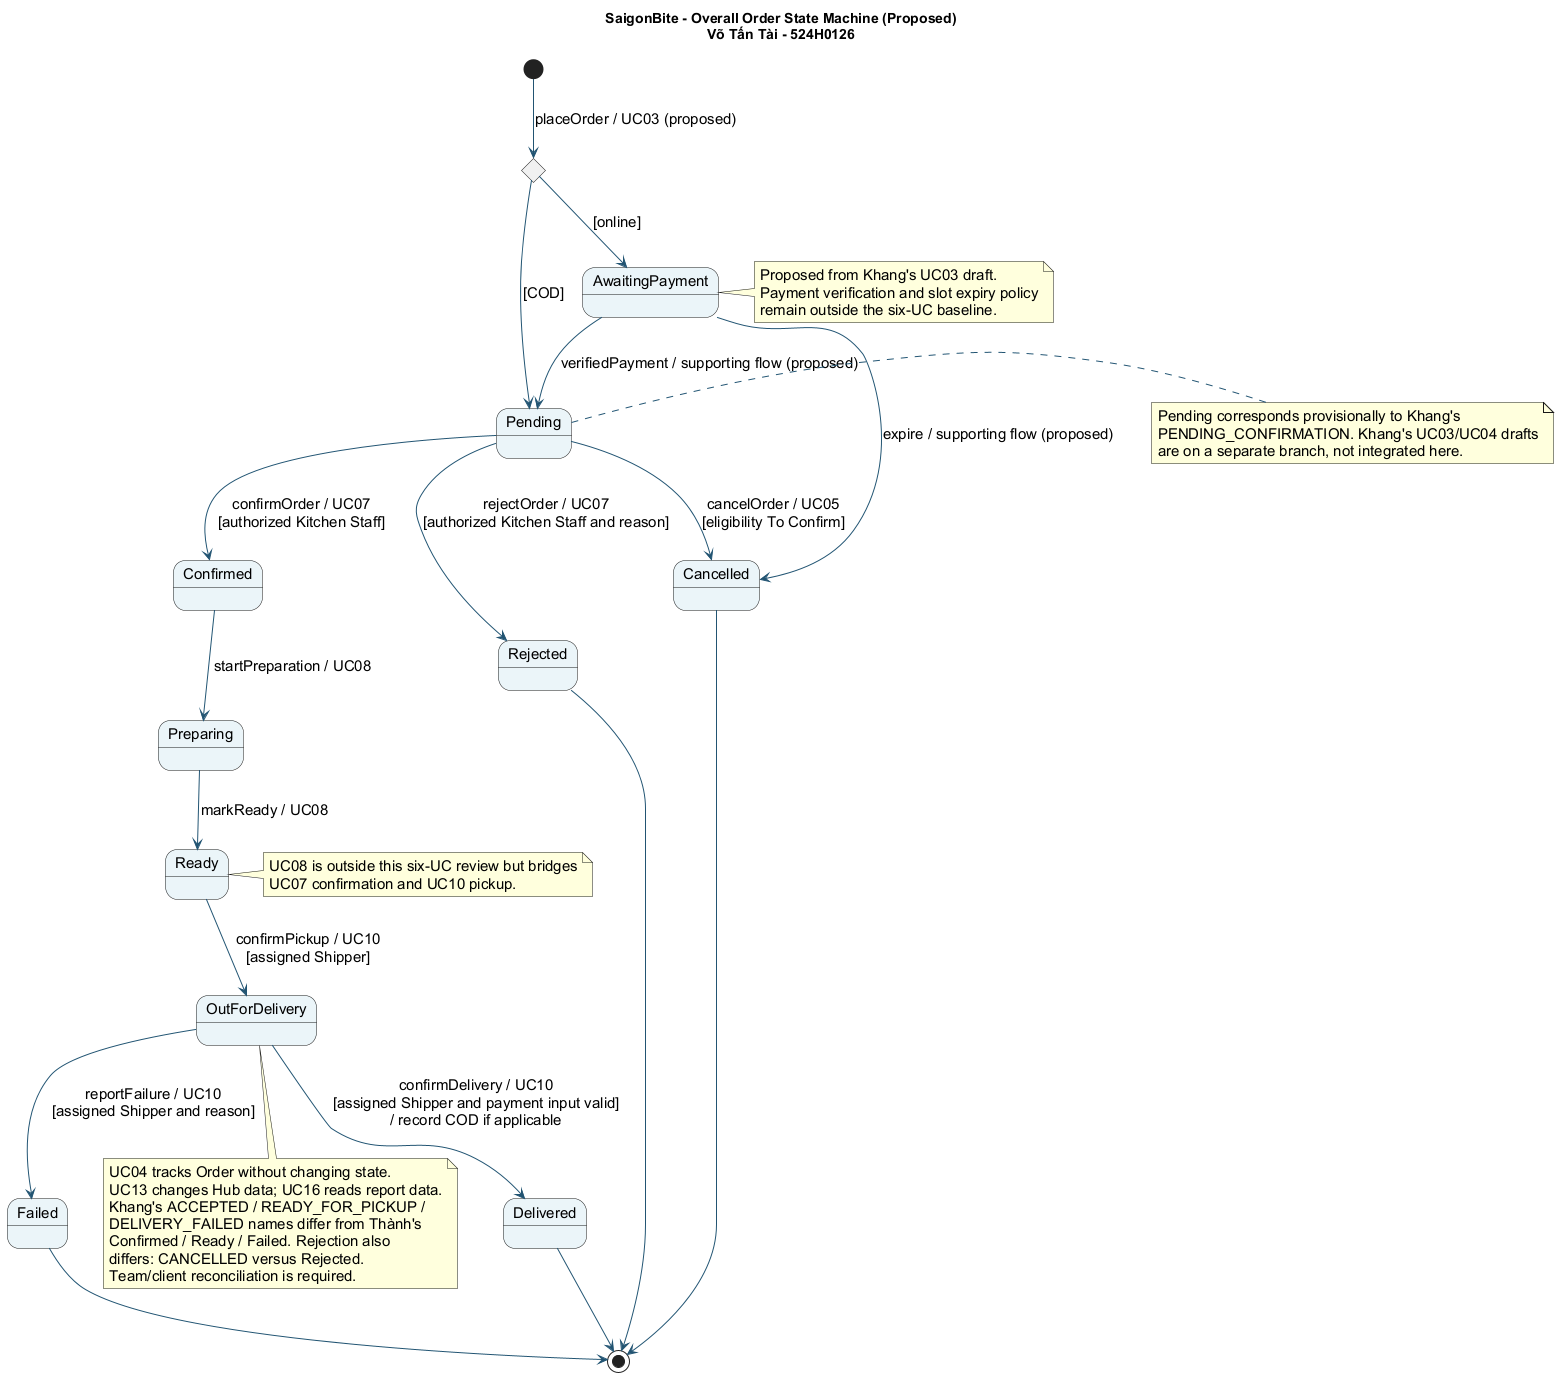
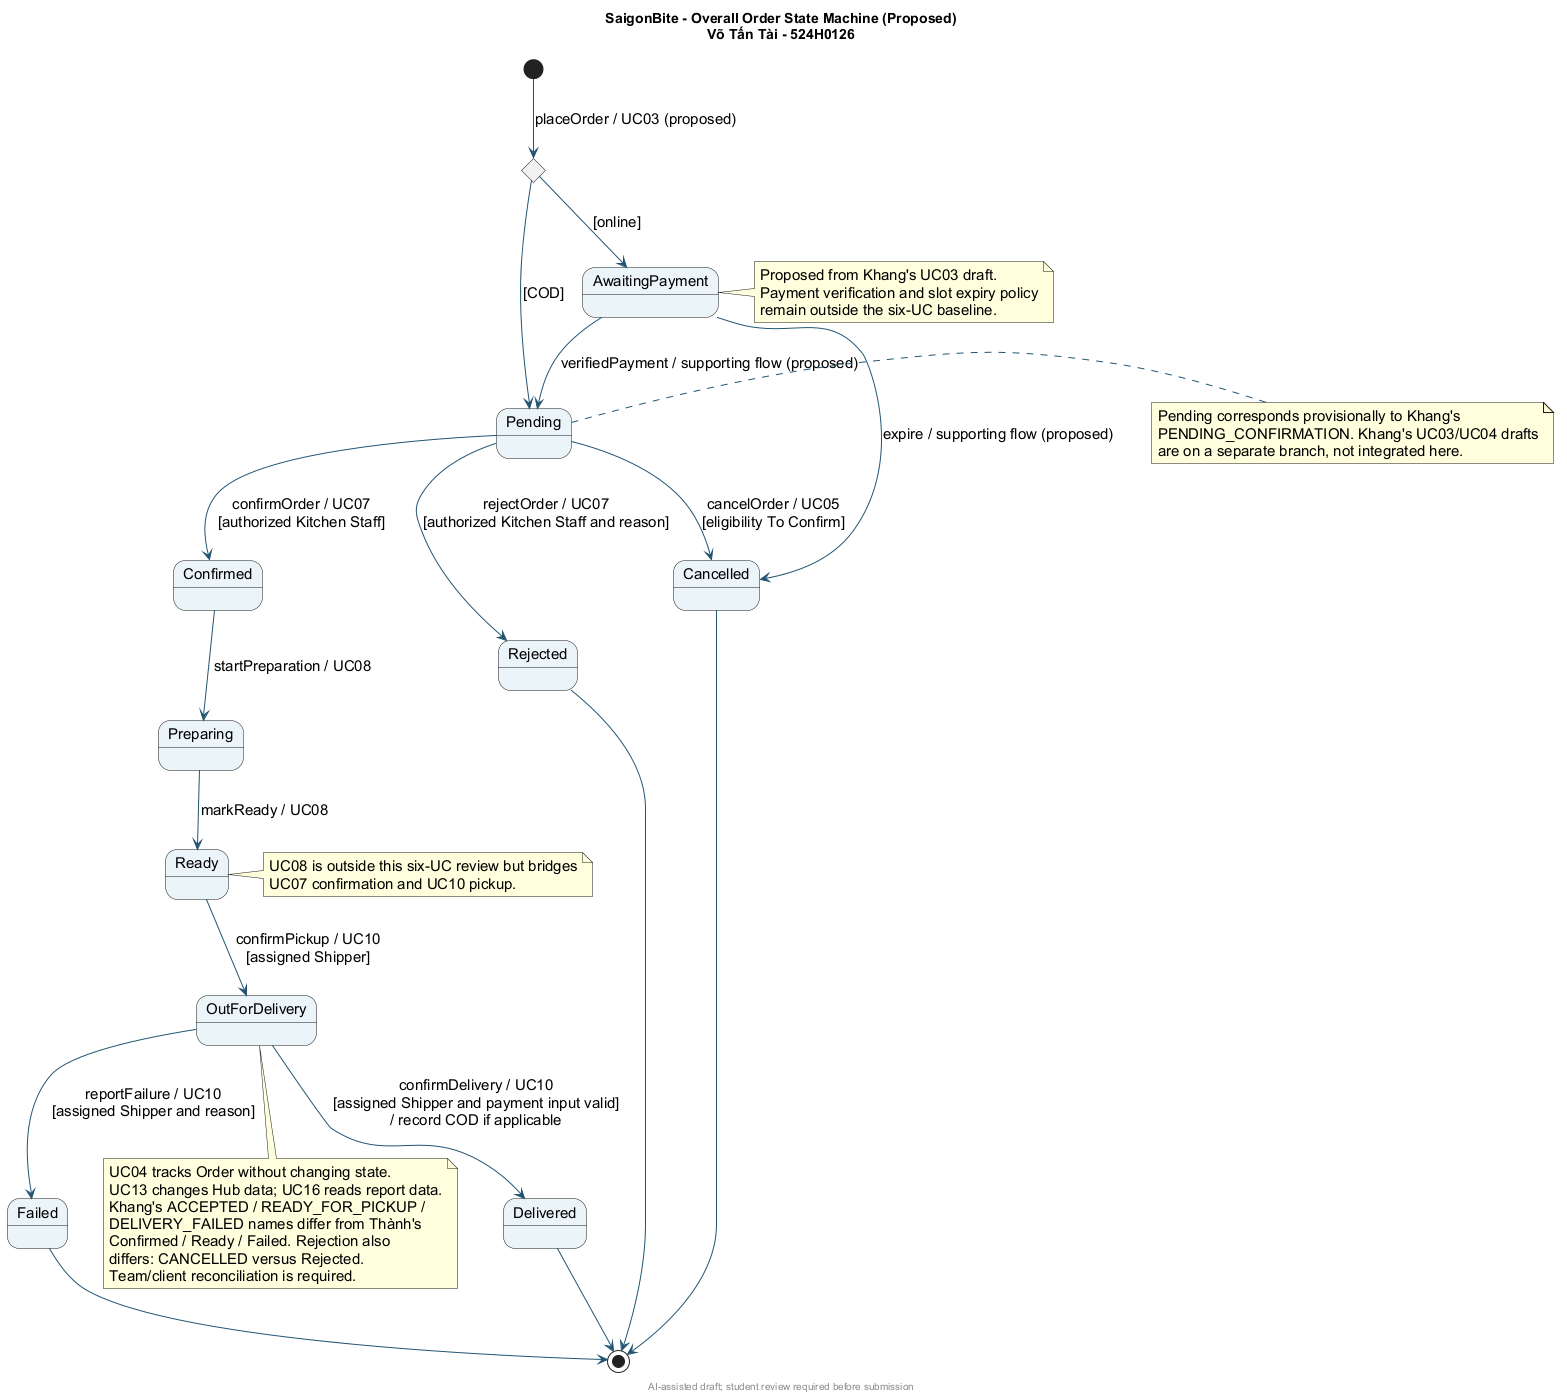
docs(domain): reconcile overall model with official case study

diff --git a/docs/sprint1/shared/domain-model/06-overall-model-notes.md b/docs/sprint1/shared/domain-model/06-overall-model-notes.md
@@ -1,8 +1,9 @@
 # Overall Domain and Order State Model — Review Notes
 
 **Author:** Võ Tấn Tài — 524H0126
+**AI use:** AI-assisted draft; student review is required before submission. See the Team Workbook AI Usage Log.
 
-**Status:** Proposed integration model for UC03, UC04, UC07, UC10, UC13 and UC16. This does not replace the UC07/UC10 diagrams by Lê Đỗ Minh Thành. The original Case Study, Final Project Requirements and RAD Report Template are unavailable in the audited files. UC03/UC04 drafts were discovered on `origin/feature/khang-uc03-uc04` during final review; they are not merged into Tài's branch.
+**Status:** Proposed integration model for UC03, UC04, UC07, UC10, UC13 and UC16. This does not replace the UC07/UC10 diagrams by Lê Đỗ Minh Thành. The official [Case Study, Final Project Requirements and Report Template](https://drive.google.com/drive/folders/14cJnJ9_AhfFeWIxvzuRefNueToF5RyNF) were supplied during the 03 November 2026 update review. UC03/UC04 drafts were discovered on `origin/feature/khang-uc03-uc04`; they are not merged into Tài's branch.
 
 ## Evidence and coverage
 
@@ -12,8 +13,8 @@
 | UC04 Track Order | Khang's draft on a separate remote branch specifies ownership-scoped read, milestones and timestamps. The current branch still has only a placeholder. | Reads Order.status and proposed OrderMilestone; no state change. | Cross-branch draft; not team reconciled. |
 | UC07 Confirm/Reject Order | UC07 description and Thành's domain/state diagrams. | Pending to Confirmed or Rejected; rejectionReason. | Team draft; role/assumptions require confirmation. |
 | UC10 Deliver Order | UC10 description and Thành's domain/state diagrams. | Ready to OutForDelivery, then Delivered or Failed; Shipper, cashCollected, failureReason. | Team draft; COD and assignment rules require confirmation. |
-| UC13 Manage Hubs and Kitchen Capacity | Tài's UC13 draft; no Case Study source. | Hub.capacitySetting; no direct Order state change. | Proposed; UC13/UC14 ownership conflict. |
-| UC16 Produce Management Reports | Tài's UC16 draft and workbook Q5/A-05. | Derived ManagementReport reads Order and Hub concepts. | Proposed; KPI/period/access unconfirmed. |
+| UC13 Manage Hubs and Kitchen Capacity | Official Case Study and Final Project Requirements identify Admin maintenance and limited hub capacity; Tài's UC13 draft. | Hub.capacitySetting; no direct Order state change. | UC13 is a source-backed candidate; UC13/UC14 team ownership conflict and capacity details remain open. |
+| UC16 Produce Management Reports | Official Case Study and Final Project Requirements name Manager and sales, hub workload and delivery performance; workbook Q5/A-05 is still unanswered. | Derived ManagementReport reads Order and Hub concepts. | Categories confirmed; KPI/period/access unconfirmed. |
 
 UC08 Prepare Order and UC05 Cancel/Edit Order are included only as transitions required to connect the six reviewed use cases with Thành's existing Order state machine. Their detailed specifications are outside this model's source set.
 
@@ -21,9 +22,12 @@ UC08 Prepare Order and UC05 Cancel/Edit Order are included only as transitions r
 
 | Class | Attributes | Basis / decision |
 |---|---|---|
-| Customer | `customerId` | Existing UC07/UC10 domain model. |
-| Hub | `hubId`; `name`, `capacitySetting` proposed | Existing hub identity; UC13 requests capacity management but does not define unit or bounds. |
-| Brand | `brandId`, `name` proposed | Proposal and workbook mention brand/menu browsing and UC14, but no approved specification is present. |
+| Customer | `customerId` | Existing UC07/UC10 domain model; generalizes the Case Study's two customer types. |
+| LocalCustomer | `mobileNumber` | The Case Study specifies Vietnamese mobile registration for local customers. |
+| TouristCustomer | `passportDetails`, `emailAddress` | The Case Study specifies passport details and email registration for foreign tourists. Privacy handling remains to be designed. |
+| Hub | `hubId`; `name` proposed; `capacitySetting` confirmed as a concept, with unit/threshold To Confirm | Existing hub identity and Case Study capacity constraint. |
+| Brand | `brandId`, `name` proposed | The Case Study confirms virtual brands and that each hub works with several; exact identifiers and naming fields are proposed. |
+| Voucher | `voucherId` proposed | The Case Study confirms vouchers and at most one voucher per order; identifier is proposed. |
 | MenuItem | `menuItemId`; `name`, `currentPrice` proposed | Existing menu item identity; browsing and order line pricing imply candidate descriptive fields. |
 | Order | `id`, `status`, `paymentMethod`, `totalDue`, optional `rejectionReason`, `failureReason`, `cashCollected`; `paymentStatus`, `deliveryAddressSnapshot`, `clientRequestId`, `placedAt`, `updatedAt` proposed | Core fields from Thành's model; added fields are proposed from Khang's UC03/UC04 drafts on a separate branch. |
 | OrderLine | `quantity`, `unitPrice`; `nameSnapshot` proposed | Existing quantity and unit price; Khang's draft proposes a name snapshot. |
@@ -43,14 +47,16 @@ No boundary, controller, repository or other software-layer class is included in
 | Order contains OrderLine | Order `1` composition to `1..*` OrderLines. | Preserved from Thành's domain model; order editing policy remains To Confirm. |
 | Order records OrderMilestone | Order `1` composition to `0..*` proposed milestones. | **Proposed / To Confirm** from Khang's UC04 draft; event storage and lifecycle need agreement. |
 | OrderLine refers to MenuItem | Each OrderLine refers to `1` MenuItem; a MenuItem may appear in `0..*` OrderLines. | Preserved from Thành's domain model. |
-| Brand groups MenuItem | Each MenuItem has `1` Brand; a Brand has `0..*` MenuItems. | **Proposed / To Confirm**; no UC03/UC04 specification validates this cardinality. |
+| Brand groups MenuItem | Each MenuItem has `1` Brand; a Brand has `0..*` MenuItems. | **Proposed / To Confirm**; the Case Study mentions brands and menus but not this exact cardinality. |
+| Hub works with Brand | Each Hub works with `1..*` Brands; a Brand may work with `0..*` Hubs. | The Case Study confirms several brands per Hub. Brand-to-Hub reuse and exact minimum remain **Proposed / To Confirm**. |
+| Order applies Voucher | An Order has `0..1` Voucher; a Voucher may apply to `0..*` Orders. | At most one voucher per Order is a Case Study fact. Voucher reuse cardinality remains **Proposed / To Confirm**. |
 | Hub offers MenuItem | Not encoded until cardinality is known. | **To Confirm**; hub-specific availability and an association class may be needed once requirements arrive. |
 | ManagementReport derives values from Order and Hub | Dependencies, not persistent associations. | **Proposed / To Confirm**; source records and formulas await Q5 answer. |
 
-Constraints requiring confirmation: hub capacity unit/bounds/effective time; hub deletion and order retention; menu availability by hub; pricing snapshot rules; order cancellation cutoff; role and hub-scoped authorization; shipper assignment; COD evidence; report KPI inclusion rules, reporting period/timezone and data visibility. The model does not encode these as approved invariants.
+The Case Study also fixes that hubs cook only for delivery, a busy hub stops taking new orders, quieter hubs are encouraged, delivery has a maximum distance and a distance-based fee, and an order eventually reaches delivery, cancellation or failure. The exact busy rule, incentive, distance, fees and discounts still need client detail. Constraints requiring confirmation: hub capacity unit/bounds/effective time; hub deletion and order retention; menu availability by hub; pricing snapshot rules; order cancellation cutoff; role and hub-scoped authorization; shipper assignment; COD evidence; report KPI inclusion rules, reporting period/timezone and data visibility. The model does not encode these as approved invariants.
 
 ## Order lifecycle consistency
 
 The revised proposed state model shows COD placement into `Pending` and online placement into `AwaitingPayment`. The latter moves to `Pending` only after a verified payment event, or to `Cancelled` on expiry. These online branches come from Khang's UC03 draft and are not yet accepted by the team. UC07 can move `Pending` to `Confirmed` or `Rejected`. UC08 bridges `Confirmed` through `Preparing` to `Ready`. UC10 moves `Ready` to `OutForDelivery`, then to either `Delivered` or `Failed`. Thành's diagram also allows `Pending` to `Cancelled` via UC05. UC04 observes state; UC13 maintains Hub data; UC16 derives read-only reports. Terminal states have no outgoing business transition in this draft.
 
-The two team drafts conflict on state vocabulary and one outcome. Candidate name mappings are `Pending` ↔ `PENDING_CONFIRMATION`, `Confirmed` ↔ `ACCEPTED`, `Ready` ↔ `READY_FOR_PICKUP`, and `Failed` ↔ `DELIVERY_FAILED`. These are **not** approved mappings. Thành's UC07 uses `Rejected`, while Khang's Order lifecycle routes reject to `CANCELLED`; those outcomes cannot be treated as equivalent without a decision about reason, refund and tracking semantics. Khang's `AWAITING_PAYMENT` is absent from Thành's model. The team must settle the canonical status set, payment transitions, cancellation/expiry, capacity release and milestone source before integration. Cross-six consistency **FAILS between the current drafts**; the correct canonical resolution remains **NOT VERIFIED** because the official Case Study is unavailable.
+The two team drafts conflict on state vocabulary and one outcome. Candidate name mappings are `Pending` ↔ `PENDING_CONFIRMATION`, `Confirmed` ↔ `ACCEPTED`, `Ready` ↔ `READY_FOR_PICKUP`, and `Failed` ↔ `DELIVERY_FAILED`. These are **not** approved mappings. Thành's UC07 uses `Rejected`, while Khang's Order lifecycle routes reject to `CANCELLED`; those outcomes cannot be treated as equivalent without a decision about reason, refund and tracking semantics. Khang's `AWAITING_PAYMENT` is absent from Thành's model. The Case Study confirms an order ends delivered, cancelled or failed but does not settle whether rejection is a separate persisted state. The team must settle the canonical status set, payment transitions, cancellation/expiry, capacity release and milestone source before integration. Cross-six consistency **FAILS between the current drafts**; the correct canonical resolution remains **NOT VERIFIED**.
